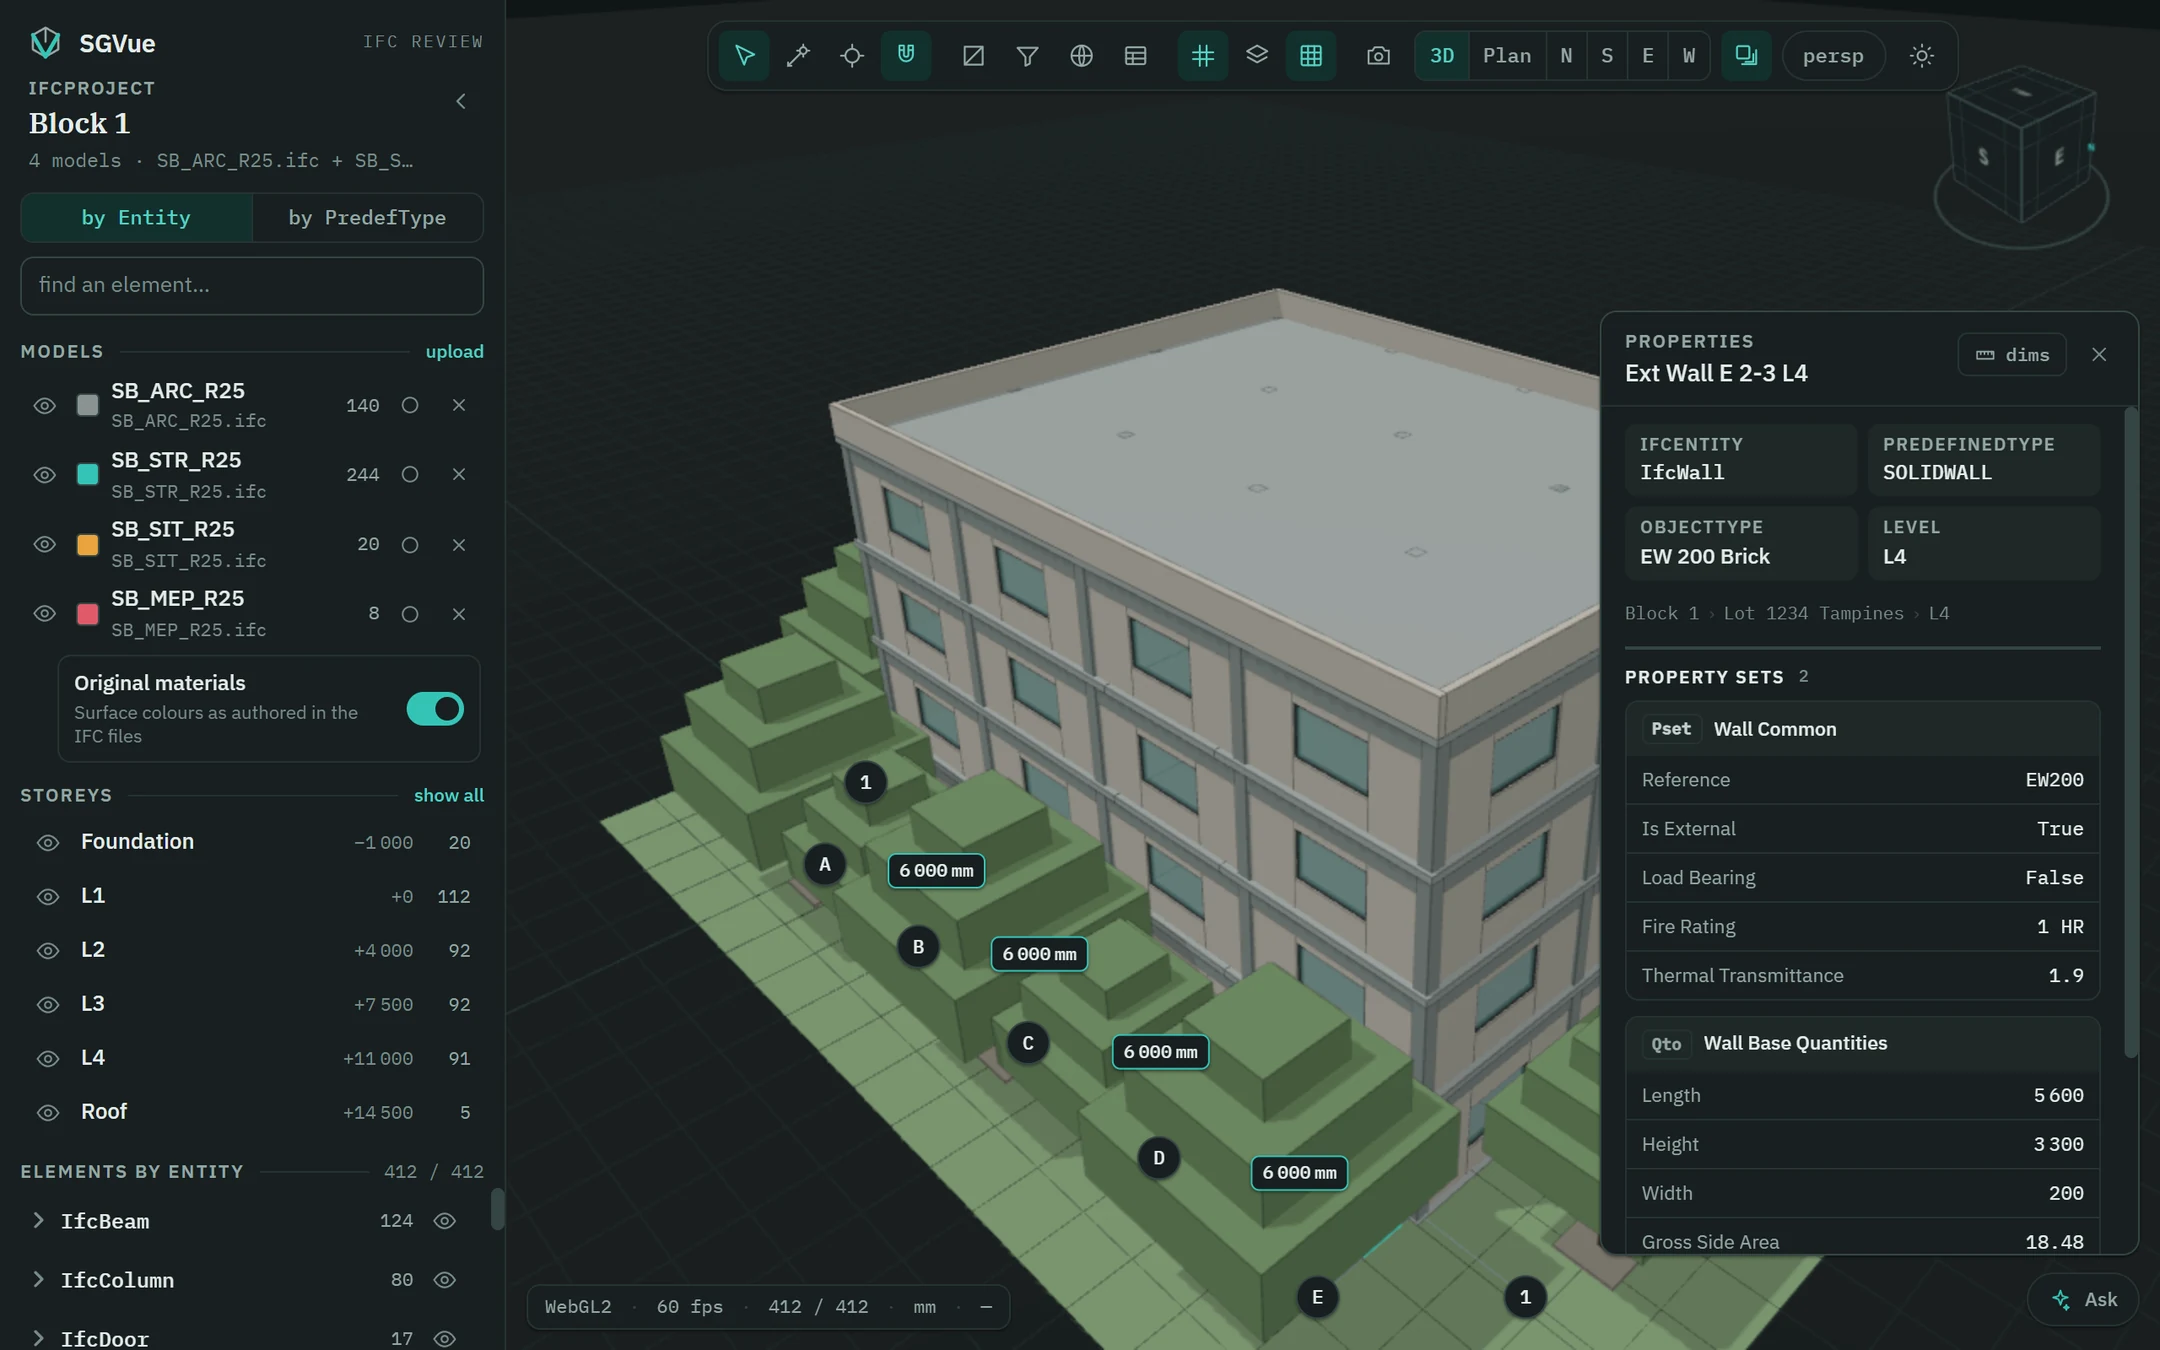
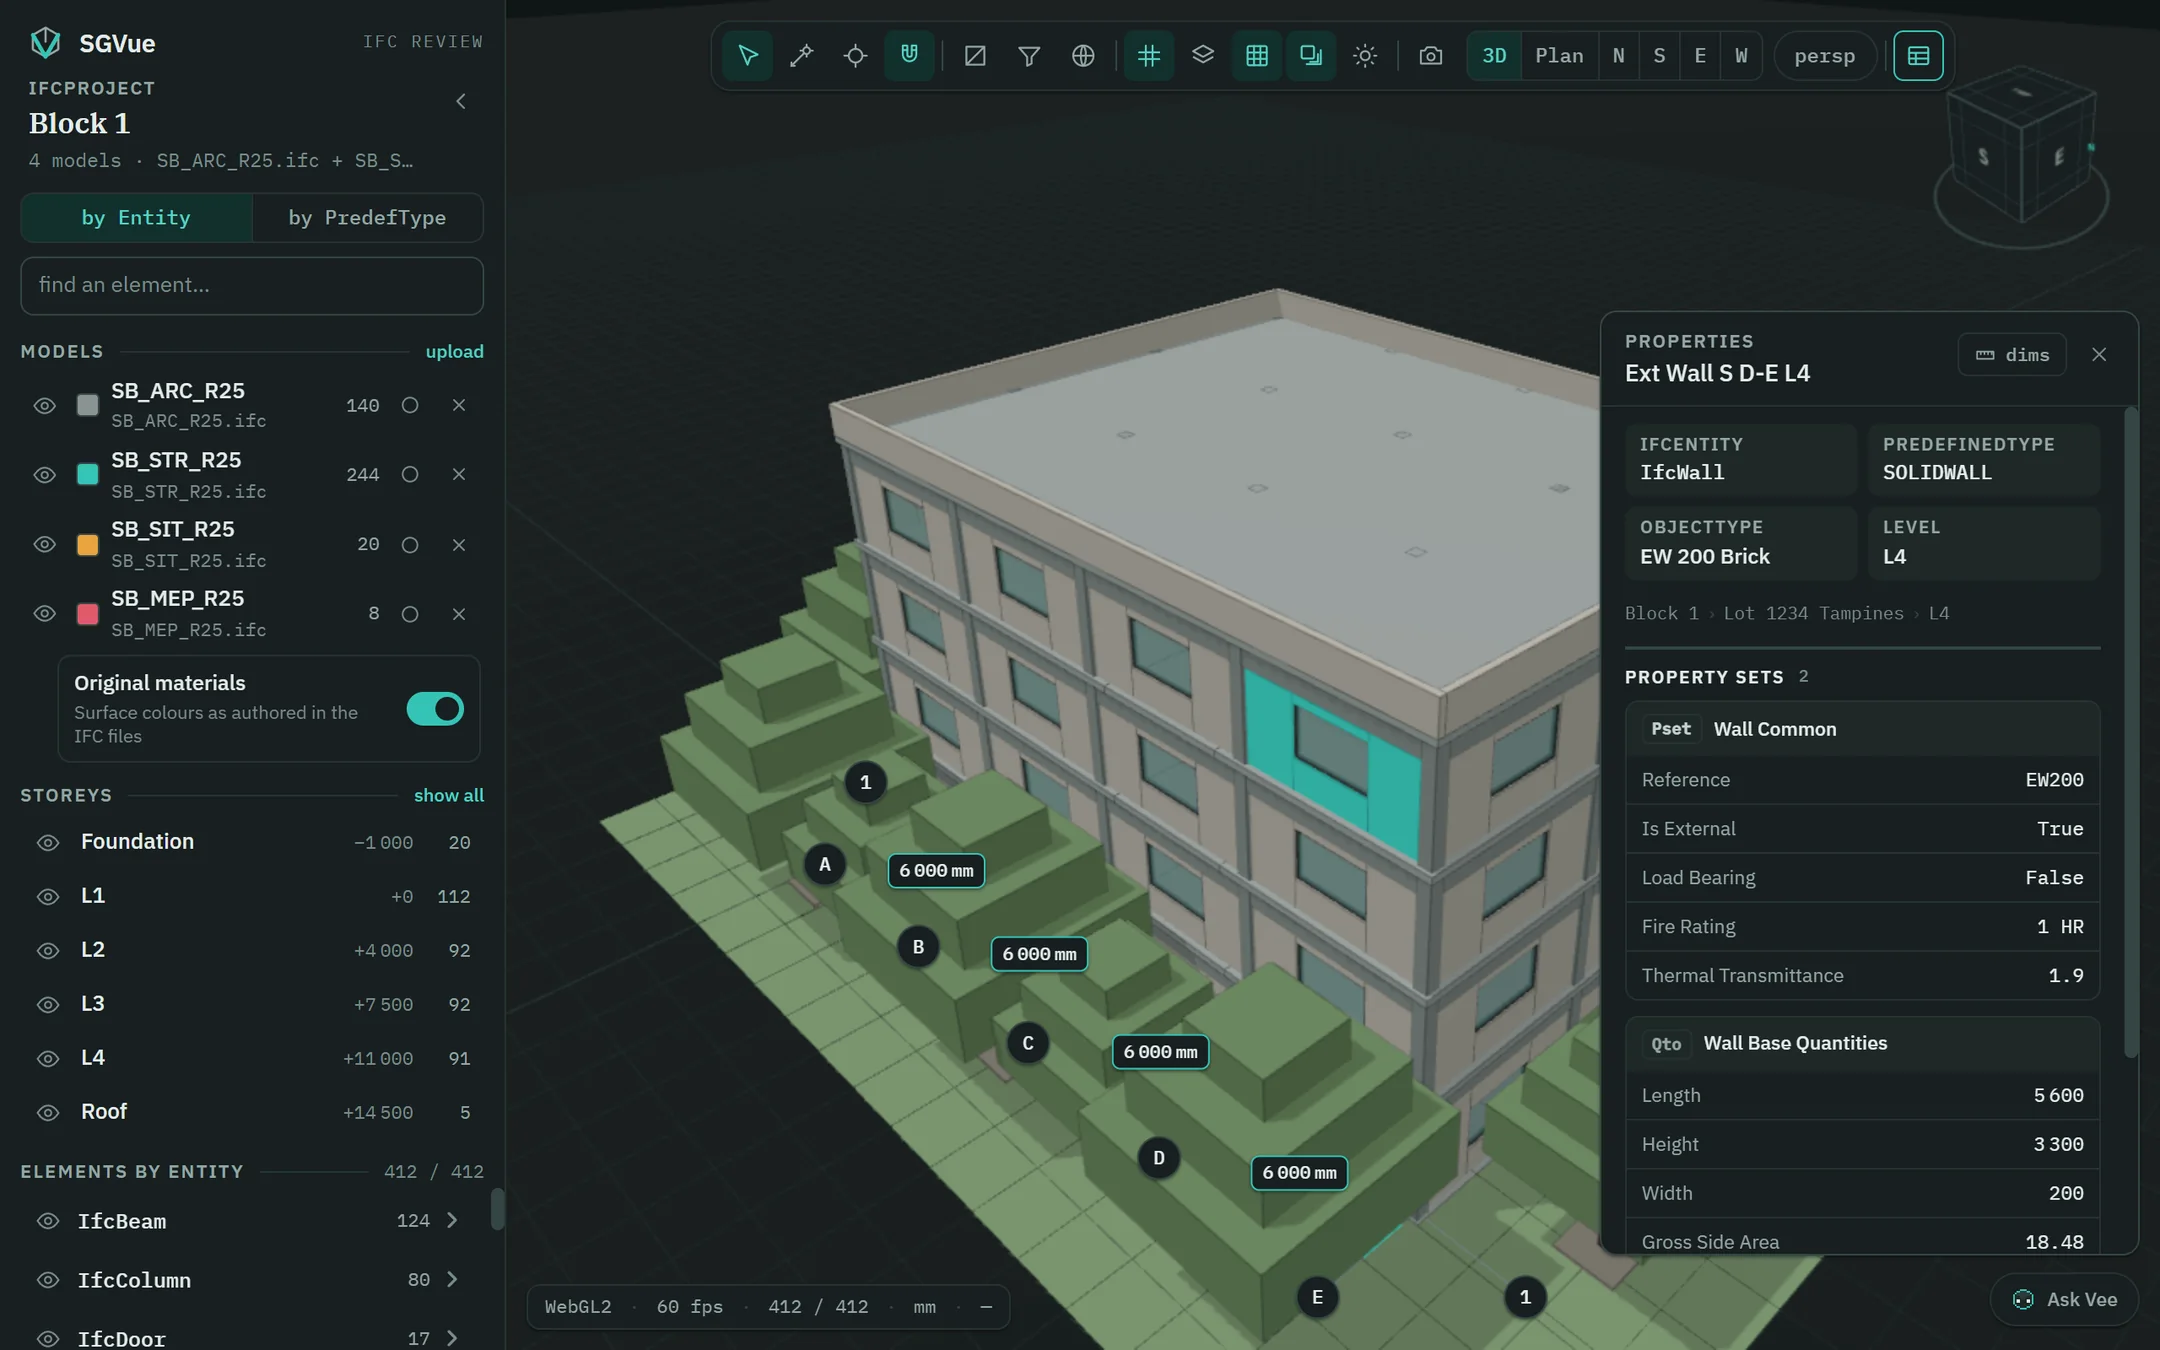
SGVue 1.2.0: system requirements, Ask Vee, two section cuts at once, the update notice; new screenshots

diff --git a/index.html b/index.html
@@ -83,17 +83,17 @@
       </article>
       <article class="feature">
         <div class="copy">
-          <h3>Ask SGVue</h3>
-          <p>An assistant that can look but never touch: ask how many doors are on L2, or which walls have no fire rating, and it answers from the file. It uses your own Anthropic API key.</p>
+          <h3>Ask Vee</h3>
+          <p>Vee is an assistant that can look but never touch: ask how many doors are on L2, or which walls have no fire rating, and it answers from the file, showing what it read and checked on the way. It uses your own Anthropic API key.</p>
         </div>
-        <figure class="shot"><img src="img/ask.webp" width="1280" height="800" loading="lazy" decoding="async" alt="The Ask SGVue panel over the 3D view, with its opening summary of the model and suggestion chips such as “Check ARC against STR”."></figure>
+        <figure class="shot"><img src="img/ask.webp" width="1280" height="800" loading="lazy" decoding="async" alt="The Ask Vee panel over the 3D view: the question “Which walls have no thermal transmittance?” and the answer, 24 of 80 walls, with a row of squares counting them on each level."></figure>
       </article>
       <article class="feature">
         <div class="copy">
           <h3>Sections with cut lines</h3>
-          <p>Cut along any gridline or level. Everything the plane passes through is outlined in a thick accent line, so the cut reads at a glance.</p>
+          <p>Cut along any gridline or level — or both at once, each with its own offset. Everything a plane passes through is outlined in a thick accent line, so the cut reads at a glance.</p>
         </div>
-        <figure class="shot"><img src="img/section.webp" width="1280" height="800" loading="lazy" decoding="async" alt="A level section through the demo building seen in 3D: walls, columns and the stair cut by the plane are outlined in a thick teal line."></figure>
+        <figure class="shot"><img src="img/section.webp" width="1280" height="800" loading="lazy" decoding="async" alt="The Section card with a gridline cut and a level cut switched on together, beside the demo building in 3D: everything the two planes pass through is outlined in a thick teal line."></figure>
       </article>
       <article class="feature">
         <div class="copy">
@@ -106,10 +106,23 @@
         <span class="badge" aria-hidden="true"><svg width="20" height="20" viewBox="0 0 24 24" fill="none" stroke="currentColor" stroke-width="1.7" stroke-linecap="round" stroke-linejoin="round"><path d="M12 3 5 6v5.5c0 4.3 3 7.9 7 9.5 4-1.6 7-5.2 7-9.5V6z"/><path d="M9 12l2.2 2.2L15.5 10"/></svg></span>
         <div>
           <h3>Read-only and private</h3>
-          <p>SGVue only ever reads your IFC files: nothing is written into them and nothing is uploaded. Ask SGVue is optional — when you use it, your question and what it reads to answer go to Anthropic under your own key.</p>
+          <p>SGVue only ever reads your IFC files: nothing is written into them and nothing is uploaded. Ask Vee is optional — when you use it, your question and what it reads to answer go to Anthropic under your own key. When SGVue starts, it asks GitHub once which version is the newest: an ordinary web request, so GitHub sees your IP address and which SGVue version is asking, and nothing from your files or models.</p>
         </div>
       </article>
     </div>
+  </section>
+
+  <section aria-labelledby="needs">
+    <p class="eyebrow">System requirements</p>
+    <h2 id="needs">What it needs to run.</h2>
+    <dl class="specs">
+      <div class="spec"><dt>System</dt><dd>Windows 10 or 11, 64-bit.</dd></div>
+      <div class="spec"><dt>Memory</dt><dd>8 GB works for IFC files up to about 100 MB. 16 GB is recommended for 200 MB files, or for several models together.</dd></div>
+      <div class="spec"><dt>Graphics</dt><dd>Any graphics card with WebGL2 — every PC of the last several years has one. On a PC with an NVIDIA card, SGVue uses it automatically.</dd></div>
+      <div class="spec"><dt>Files</dt><dd>IFC, as <span class="kbd">.ifc</span> or <span class="kbd">.ifczip</span>. It is built for typical files of 50–200 MB; a single file larger than 600 MB is not opened.</dd></div>
+      <div class="spec"><dt>Disk</dt><dd>About 110 MB to download, and about 390 MB once installed.</dd></div>
+      <div class="spec"><dt>Internet</dt><dd>Not needed to view models. Two things use it: a check for a newer version when SGVue starts, which sends nothing about your files or models, and Ask Vee — only if you set it up with your own Anthropic API key.</dd></div>
+    </dl>
   </section>
 
   <section aria-labelledby="install">
@@ -119,7 +132,7 @@
       <li class="step"><span class="n">1</span><div><h3>Download</h3><p>Get the setup file with the <strong>Download for Windows</strong> button above.</p></div></li>
       <li class="step"><span class="n">2</span><div><h3>Run it</h3><p>SGVue is not code-signed yet, so Windows may say <strong>Windows protected your PC</strong>. Choose <strong>More info</strong>, then <strong>Run anyway</strong>.</p></div></li>
       <li class="step"><span class="n">3</span><div><h3>Install, update or repair</h3><p>The setup wizard tells you which it will do. Updating keeps your settings, API key, recent files and saved views.</p></div></li>
-      <li class="step"><span class="n">4</span><div><h3>Stay current</h3><p>In SGVue, <span class="kbd">Help › Check for updates</span> shows you the newest version.</p></div></li>
+      <li class="step"><span class="n">4</span><div><h3>Stay current</h3><p>SGVue’s start page — where you open models — tells you when a newer version is out. <span class="kbd">Help › Check for updates</span> opens this page, which says whether you are up to date.</p></div></li>
     </ol>
   </section>
 </main>

diff --git a/site.css b/site.css
@@ -120,6 +120,14 @@ h2{margin-top:10px;font:600 27px/1.2 var(--serif);letter-spacing:-.005em;color:v
 .private .badge,.step .n{flex:none;width:40px;height:40px;display:flex;align-items:center;justify-content:center;border-radius:10px;background:var(--step-bg);color:var(--accent-ink)}
 .private p{max-width:70ch}
 
+/* ── system requirements: label / value, stacked on a phone ── */
+.specs{margin:26px 0 0;border:1px solid var(--border);border-radius:12px;background:var(--card);box-shadow:var(--shadow)}
+.spec{display:grid;gap:2px 24px;padding:14px 18px}
+.spec+.spec{border-top:1px solid var(--border)}
+.spec dt{font:600 15px/1.6 var(--sans);color:var(--ink)}
+.spec dd{margin:0;max-width:70ch;color:var(--muted);text-wrap:pretty}
+@media (min-width:600px){.spec{grid-template-columns:120px minmax(0,1fr);padding:14px 22px}}
+
 /* ── install ── */
 .steps{list-style:none;padding:0;margin-top:26px;display:grid;gap:12px}
 @media (min-width:860px){.steps{grid-template-columns:repeat(2,minmax(0,1fr))}}
